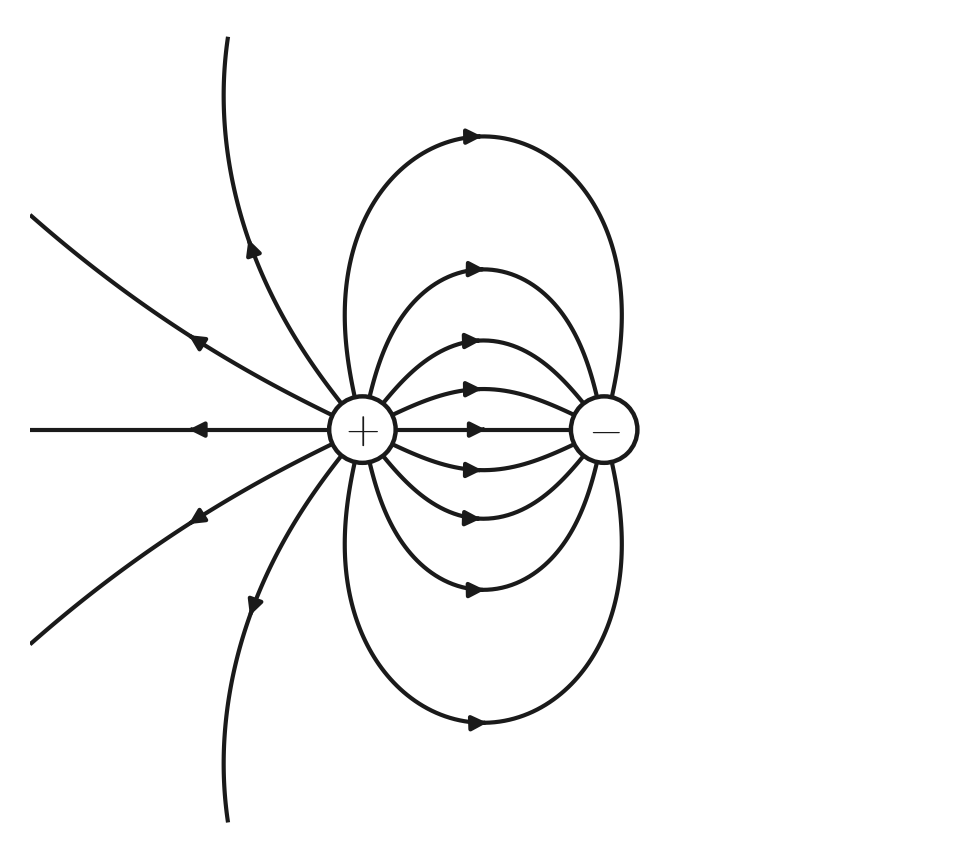
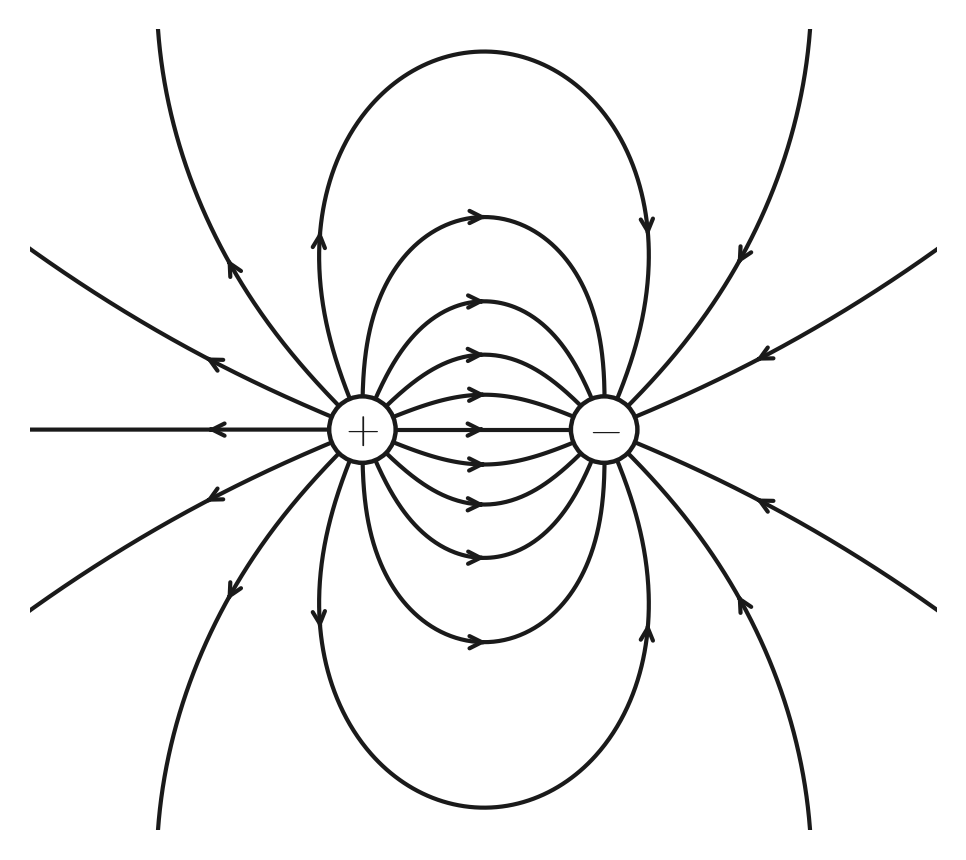
PSEII Ch 22: rebuild chapter page from current notes
22.4 now follows the derivation as taught: components with theta/phi,
substitute the side ratios, and the angles drop out. Adds Magnitude and
Direction (alpha as the output angle) and a law-of-cosines check.

22.5 rewritten to write both components before discarding either, so the
semicircle's E_x = 0 is computed rather than asserted. Adds the quarter
arc and a general-arc result whose theta_0 -> 0 limit recovers Coulomb's
law. 22.6 gains an equipotentials subsection for Exp 203.

Figures: adds fig_22_5_geometry, fig_22_5b_superposition_flipped and
fig_22_23_arc_element; regenerates fig_22_5_superposition. Also picks up
a corrected fig_22_6_dipole -- the published version was missing every
field line terminating on the negative charge.

Claude-Session: https://claude.ai/code/session_01BoE2Ccu2Y5yo7jzn8rYD96

diff --git a/courses/pseii/ch22.html b/courses/pseii/ch22.html
@@ -105,14 +105,27 @@
       .page-hero__inner{max-width:none !important;padding:0 !important}
       .page-hero__title{color:#111 !important;font-size:19pt !important}
       .page-hero__subtitle{color:#444 !important;font-size:10.5pt !important}
-      .content-body{font-size:10.5pt;line-height:1.45;color:#111 !important}
-      .content-body h2{color:#111 !important;font-size:13pt !important;margin:1.5em 0 .7em;padding-bottom:.3rem;border-bottom:1px solid #999 !important;
+      /* PRINT TYPE SCALE — keep it monotonic and keep it proportional to the
+         screen contract (screen: h2 2.10x, h3 1.20x, h4 1.05x of body).
+         Print does not need the screen's 2.1x on h2, but it does need the
+         LEVELS to stay distinguishable and in order:
+             body 10 · h4 10.5 (1.05) · h3 12 (1.20) · h2 14.5 (1.45)
+         Scaled down one notch from 11pt on 2026-08-11 (Cole: proportions right,
+         everything still too large to fit much on a page). The RATIOS are the
+         locked part; the base size is the knob. line-height is a ratio, so it
+         scales with the base and needs no separate change.
+         h4 MUST be declared here. It was previously left out, so it kept its
+         screen 1.05rem = 12.6pt and rendered LARGER than the h3 above it —
+         a sub-sub-head louder than its parent, in every chapter using ####. */
+      .content-body{font-size:10pt;line-height:1.55;color:#111 !important}
+      .content-body h2{color:#111 !important;font-size:14.5pt !important;margin:1.5em 0 .7em;padding-bottom:.3rem;border-bottom:1px solid #999 !important;
         break-after:avoid;page-break-after:avoid}
-      .content-body h3{color:#222 !important;font-size:11.5pt !important;break-after:avoid;page-break-after:avoid}
+      .content-body h3{color:#222 !important;font-size:12pt !important;break-after:avoid;page-break-after:avoid}
+      .content-body h4{color:#333 !important;font-size:10.5pt !important;break-after:avoid;page-break-after:avoid}
       /* the theme sets size/leading on .content-body p (more specific than .content-body),
          so print density MUST be set at that selector or the screen values win */
       .content-body p,.content-body li,.content-body td,.content-body th{
-        color:#111 !important;font-size:11pt !important;line-height:1.6 !important;orphans:3;widows:3}
+        color:#111 !important;font-size:10pt !important;line-height:1.55 !important;orphans:3;widows:3}
       .content-body p{margin-bottom:.55rem !important}
       .content-body ul,.content-body ol{margin-bottom:.55rem !important}
       /* block spacing is what actually drives page count once type matches */
@@ -127,6 +140,15 @@
       .content-body th{color:#111 !important;background:#eee}
       .content-body th,.content-body td{border:1px solid #999 !important}
       .content-body table,.chap-fig,.fig-ph,figure,blockquote{break-inside:avoid;page-break-inside:avoid}
+      /* Lists: these are short (3-5 items) throughout, and splitting one strands
+         orphan bullets at the top of the next page with nothing to attach them
+         to — worse when a new section heading follows immediately. A list taller
+         than a page cannot honour this and breaks normally. The :has() rule
+         keeps the lead-in sentence with the list it introduces. */
+      .content-body ul,.content-body ol{break-inside:avoid;page-break-inside:avoid}
+      .content-body li{break-inside:avoid;page-break-inside:avoid}
+      .content-body p:has(+ ul),.content-body p:has(+ ol){break-after:avoid;page-break-after:avoid}
+      /* semantic-block fragmentation is decided in ONE place, further down */
       .content-body blockquote{color:#333 !important;border-left:2px solid #999 !important}
       /* Anchor figures to the TEXT measure, not the full container. Without this they cap at
          78% of the 6.9in content box (=5.38in) while paragraphs run 5.54in, so every figure
@@ -137,7 +159,12 @@
          style="max-width:min(Xin,100%)", and an !important rule here would clobber it and
          flatten every figure to one size. Cap the FIGURE, let the source set each image. */
       .chap-fig img{padding:0 !important;border-radius:0}
-      .chap-fig figcaption{color:#444 !important;font-size:9pt}
+      /* Caption: the screen rule caps it at 52ch and centres it, which inside a
+         5.5in figure block wraps every caption to three narrow lines and wastes
+         a third of the figure's vertical budget. In print let it use the full
+         block width and set it tight — most captions then fit on one or two. */
+      .chap-fig figcaption{color:#444 !important;font-size:8.5pt;line-height:1.3 !important;
+        max-width:none !important;margin-left:0 !important;margin-right:0 !important}
       .fig-ph{border:1px dashed #999 !important;background:none !important}
       .fig-ph__tag,.fig-ph__cap{color:#444 !important}
       a{color:#111 !important;text-decoration:none}
@@ -161,9 +188,23 @@
       .check{border-left-color:#4a3f8a !important;background:rgba(74,63,138,.045) !important}
       .result{text-align:center;background:none !important;border:0 !important;
         padding:0 !important;margin:.6rem 0 !important}
-      /* a check or a result must never straddle a page break; a long example may */
+      /* Fragmentation is decided HERE and nowhere else — check for an existing
+         break-inside rule before adding another; a later one silently wins.
+         .check/.result are small and must never straddle a break.
+         .example stays `auto` DELIBERATELY, and the cost of changing it is
+         measured: forcing avoid kept the Ch 23 cavity example whole (+1 page)
+         but pushed a mid-size Ch 22 example wholesale to the next page, taking
+         that chapter 21 -> 24 pages and leaving a 7.5in blank at the foot of
+         p13. `avoid` is all-or-nothing: a block shorter than a page but longer
+         than the space remaining gets moved entire, and the gap it leaves is
+         worse than the split it prevents. */
       .check,.result{break-inside:avoid;page-break-inside:avoid}
-      .example{break-inside:auto}
+      .example,.connection{break-inside:auto}
+      /* Per-block opt-in: mark a block `::: {.example .keep}` in the markdown
+         when THAT block must not straddle a break. Author-controlled and local,
+         so one stubborn example never costs every other chapter three pages.
+         Use sparingly and only on blocks that comfortably fit a page. */
+      .keep{break-inside:avoid !important;page-break-inside:avoid !important}
     }
   </style>
 </head>
@@ -443,44 +484,71 @@
 <p>where <span class="math inline">\(\vec{F}_{21}\)</span> is the force on charge 1 due to charge 2, etc.</p>
 <section id="example-electric-field-from-two-charges" class="example">
 <h3>Example: Electric Field from Two Charges</h3>
-<p>A charge <span class="math inline">\(q_1 = +4.00\)</span> nC sits at <span class="math inline">\(x = -5.00\)</span> cm and a charge <span class="math inline">\(q_2 = -2.00\)</span> nC sits at <span class="math inline">\(x = +9.00\)</span> cm. Find the electric field at point P located at <span class="math inline">\((0,\ 12.0\ \text{cm})\)</span> on the y-axis.</p>
-<figure class="chap-fig"><img src="/courses/pseii/ch22_figures/fig_22_5_superposition.png" alt="Figure 22.5: Superposition — the net electric field at P is the vector sum of individual fields" loading="lazy" style="max-width:min(4.2in,100%)" /><figcaption>Figure 22.5: Superposition — the net electric field at P is the vector sum of individual fields</figcaption></figure>
-<p><strong>Step 1 — Distances.</strong> From each charge to P:</p>
-<p><span class="math display">\[r_1 = \sqrt{(5.00)^2 + (12.0)^2} = 13.0\ \text{cm}, \qquad r_2 = \sqrt{(9.00)^2 + (12.0)^2} = 15.0\ \text{cm}\]</span></p>
-<p><strong>Step 2 — Magnitudes.</strong> Use <span class="math inline">\(E = k_e|q|/r^2\)</span> for each charge separately:</p>
-<p><span class="math display">\[E_1 = \frac{(8.988\times10^9)(4.00\times10^{-9})}{(0.130)^2} = 2.13\times10^{3}\ \text{N/C}\]</span></p>
-<p><span class="math display">\[E_2 = \frac{(8.988\times10^9)(2.00\times10^{-9})}{(0.150)^2} = 7.99\times10^{2}\ \text{N/C}\]</span></p>
-<p><strong>Step 3 — Directions.</strong> This is where sign matters, and it is the step students most often skip. <span class="math inline">\(q_1\)</span> is <strong>positive</strong>, so <span class="math inline">\(\vec{E}_1\)</span> points <em>away</em> from it — along the unit vector from <span class="math inline">\(q_1\)</span> to P, which is <span class="math inline">\((5, 12)/13\)</span>. <span class="math inline">\(q_2\)</span> is <strong>negative</strong>, so <span class="math inline">\(\vec{E}_2\)</span> points <em>toward</em> it — along the unit vector from P to <span class="math inline">\(q_2\)</span>, which is <span class="math inline">\((9, -12)/15\)</span>.</p>
-<p><span class="math display">\[\vec{E}_1 = 2.13\times10^{3}\left(\tfrac{5}{13},\ \tfrac{12}{13}\right) = (818,\ 1964)\ \text{N/C}\]</span></p>
-<p><span class="math display">\[\vec{E}_2 = 7.99\times10^{2}\left(0.600,\ -0.800\right) = (479,\ -639)\ \text{N/C}\]</span></p>
-<p><strong>Step 4 — Add componentwise, then convert back:</strong></p>
-<p><span class="math display">\[E_x = 818 + 479 = 1.30\times10^{3}\ \text{N/C}, \qquad E_y = 1964 - 639 = 1.32\times10^{3}\ \text{N/C}\]</span></p>
+<p>Geometry (as in the figure): <span class="math inline">\(q_{1}\)</span> sits a distance <span class="math inline">\(x_{1}\)</span> to the <strong>left</strong> of the <span class="math inline">\(y\)</span>-axis and <span class="math inline">\(q_{2}\)</span> a distance <span class="math inline">\(x_{2}\)</span> to the <strong>right</strong>, both on the <span class="math inline">\(x\)</span>-axis, with the field point P at <span class="math inline">\((0,\ y)\)</span>. Let <span class="math inline">\(\theta\)</span> be the angle <span class="math inline">\(\vec{E}_{1}\)</span> makes with the horizontal and <span class="math inline">\(\phi\)</span> the angle <span class="math inline">\(\vec{E}_{2}\)</span> makes with it.</p>
+<figure class="chap-fig"><img src="/courses/pseii/ch22_figures/fig_22_5_geometry.png" alt="Figure 22.5: The two-charge problem with every quantity named. \theta and \phi appear twice — at the charges, where they are angles of the two right triangles, and at P, where they are the directions of the two fields. They are the same angles. Component arrows are drawn dashed with open heads to distinguish them from the fields themselves. \gamma is the angle a law-of-cosines attack would need; it sits at the head of \vec{E}_{1}, where \vec{E}_{2} has been carried over tip-to-tail, and it is not needed by the component route at all." loading="lazy" style="max-width:min(5.2in,100%)" /><figcaption>Figure 22.5: The two-charge problem with every quantity named. <span class="math inline">\(\theta\)</span> and <span class="math inline">\(\phi\)</span> appear twice — at the charges, where they are angles of the two right triangles, and at P, where they are the directions of the two fields. They are the same angles. Component arrows are drawn dashed with open heads to distinguish them from the fields themselves. <span class="math inline">\(\gamma\)</span> is the angle a law-of-cosines attack would need; it sits at the head of <span class="math inline">\(\vec{E}_{1}\)</span>, where <span class="math inline">\(\vec{E}_{2}\)</span> has been carried over tip-to-tail, and it is not needed by the component route at all.</figcaption></figure>
+<p><span class="math display">\[\vec{E} = \vec{E}_{1} + \vec{E}_{2}\]</span></p>
+<p><span class="math display">\[\vec{E}_{1} = E_{1x}\widehat{i} + E_{1y}\widehat{j}, \qquad \vec{E}_{2} = E_{2x}\widehat{i} + E_{2y}\widehat{j}\]</span></p>
+<p>Both charges are positive, so each field points <em>away</em> from its own source: <span class="math inline">\(\vec{E}_{1}\)</span> up and to the right, <span class="math inline">\(\vec{E}_{2}\)</span> up and to the left. That one reading of the picture fixes all four signs.</p>
+<p><span class="math display">\[E_{1x} = E_{1}\cos\theta, \quad E_{1y} = E_{1}\sin\theta, \qquad E_{2x} = -E_{2}\cos\phi, \quad E_{2y} = E_{2}\sin\phi\]</span></p>
+<p><span class="math display">\[\vec{E} = \left( E_{1}\cos\theta - E_{2}\cos\phi \right)\widehat{i} + \left( E_{1}\sin\theta + E_{2}\sin\phi \right)\widehat{j}\]</span></p>
+<p>Now the magnitudes, <span class="math inline">\(E = k_{e}q/r^{2}\)</span> taken one charge at a time:</p>
+<p><span class="math display">\[\vec{E} = \left( \frac{k_{e}q_{1}}{r_{1}^{2}}\cos\theta - \frac{k_{e}q_{2}}{r_{2}^{2}}\cos\phi \right)\widehat{i} + \left( \frac{k_{e}q_{1}}{r_{1}^{2}}\sin\theta + \frac{k_{e}q_{2}}{r_{2}^{2}}\sin\phi \right)\widehat{j}\]</span></p>
+<p>and then the angles — which are not independent information at all, but ratios of sides of triangles the coordinates already gave you:</p>
+<p><span class="math display">\[\cos\theta = \frac{x_{1}}{r_{1}}, \quad \sin\theta = \frac{y}{r_{1}}, \qquad \cos\phi = \frac{x_{2}}{r_{2}}, \quad \sin\phi = \frac{y}{r_{2}}\]</span></p>
+<p><span class="math display">\[\vec{E} = k_{e}\left[ \left( \frac{q_{1}x_{1}}{r_{1}^{3}} - \frac{q_{2}x_{2}}{r_{2}^{3}} \right)\widehat{i} + \left( \frac{q_{1}y}{r_{1}^{3}} + \frac{q_{2}y}{r_{2}^{3}} \right)\widehat{j} \right]\]</span></p>
+<p><strong>Watch what just happened to <span class="math inline">\(\theta\)</span> and <span class="math inline">\(\phi\)</span>: they are gone.</strong> Substituting the ratios removed every trace of them, and what remains depends only on <span class="math inline">\(q_{1}\)</span>, <span class="math inline">\(q_{2}\)</span>, <span class="math inline">\(x_{1}\)</span>, <span class="math inline">\(x_{2}\)</span> and <span class="math inline">\(y\)</span> — the numbers the problem handed you. The angles were bookkeeping, never inputs. With <span class="math inline">\(r_{1} = \sqrt{x_{1}^{2} + y^{2}}\)</span> and <span class="math inline">\(r_{2} = \sqrt{x_{2}^{2} + y^{2}}\)</span>:</p>
+<p><span class="math display">\[\vec{E} = k_{e}\left[ \left( \frac{q_{1}x_{1}}{\left( x_{1}^{2}+y^{2} \right)^{3/2}} - \frac{q_{2}x_{2}}{\left( x_{2}^{2}+y^{2} \right)^{3/2}} \right)\widehat{i} + \left( \frac{q_{1}y}{\left( x_{1}^{2}+y^{2} \right)^{3/2}} + \frac{q_{2}y}{\left( x_{2}^{2}+y^{2} \right)^{3/2}} \right)\widehat{j} \right]\]</span></p>
+<p>Place the charges symmetrically, <span class="math inline">\(x_{1} = x_{2} = x\)</span>, so that <span class="math inline">\(\theta = \phi\)</span> and <span class="math inline">\(r_{1} = r_{2}\)</span>:</p>
 <div class="result">
-<p><span class="math display">\[\boxed{\;E = \sqrt{E_x^2 + E_y^2} = 1.85\times10^{3}\ \text{N/C}, \qquad \theta = \tan^{-1}\!\left(\frac{E_y}{E_x}\right) = 45.6°\;}\]</span></p>
+<p><span class="math display">\[\boxed{\;\vec{E} = \frac{k_{e}}{\left( x^{2} + y^{2} \right)^{3/2}}\left[\, x\left( q_{1} - q_{2} \right)\widehat{i} + y\left( q_{1} + q_{2} \right)\widehat{j} \,\right]\;}\]</span></p>
 </div>
-<p><strong>Interpretation:</strong> the net field points up and to the right at almost exactly 45°. That is not a coincidence worth trusting — it happens because the larger, nearer positive charge pushes P upward and away while the smaller, farther negative charge pulls P down and to the right, and the two vertical contributions nearly, but not quite, cancel. Change either charge and that near-45° result disappears immediately. <strong>Superposition is a vector sum, not a magnitude sum:</strong> note that <span class="math inline">\(E \neq E_1 + E_2 = 2.93\times10^3\)</span> N/C.</p>
+<p>The <span class="math inline">\(\widehat{i}\)</span> term is carried by the <strong>difference</strong> of the charges and the <span class="math inline">\(\widehat{j}\)</span> term by their <strong>sum</strong>. Notice immediately what that means: <strong>if <span class="math inline">\(q_{2}\)</span> is negative, the field stacks in <span class="math inline">\(x\)</span> and cancels in <span class="math inline">\(y\)</span></strong> — the two behaviours trade places, and you can see it before computing anything.</p>
+<p><span class="math display">\[q_{1} = q_{2} = q: \qquad \boxed{\;\vec{E} = \frac{2k_{e}q\, y}{\left( x^{2} + y^{2} \right)^{3/2}}\,\widehat{j}\;} \qquad \text{and for } y \gg x, \quad \vec{E} \approx \frac{k_{e}(2q)}{y^{2}}\,\widehat{j}\]</span></p>
+<p><span class="math display">\[q_{1} = q,\ q_{2} = -q: \qquad \boxed{\;\vec{E} = \frac{2k_{e}q\, x}{\left( x^{2} + y^{2} \right)^{3/2}}\,\widehat{i}\;} \qquad \text{and for } y \gg x, \quad \vec{E} \approx \frac{2k_{e}q x}{y^{3}}\,\widehat{i}\]</span></p>
+<p>Far away, the <strong>sum</strong> survives as <span class="math inline">\(1/y^{2}\)</span> and is indistinguishable from a single charge <span class="math inline">\(2q\)</span> — which is exactly what should happen. The <strong>difference</strong> survives as <span class="math inline">\(1/y^{3}\)</span>, faster than any point charge, because what is left is only the residue after a near-cancellation. Recognizing a vanishing component <em>before</em> computing anything is the most valuable habit in this chapter, and it is the same move that makes the continuous distributions in §22.5 tractable.</p>
 </section>
-<div class="example">
-<h3 id="special-case-two-equal-charges-symmetry-does-the-work">Special Case: Two Equal Charges — Symmetry Does the Work</h3>
-<p>Now let both charges be <strong>identical</strong>, <span class="math inline">\(q_1 = q_2 = +q\)</span>, placed symmetrically at <span class="math inline">\(x = \pm a\)</span>, with P again at <span class="math inline">\((0, y)\)</span>.</p>
-<p>Each field has the same magnitude <span class="math inline">\(k_e q/(a^2+y^2)\)</span>, and their <span class="math inline">\(x\)</span>-components point in opposite directions. They cancel exactly:</p>
-<p><span class="math display">\[E_x = 0\]</span></p>
-<p>Only the <span class="math inline">\(y\)</span>-components survive, each contributing a factor <span class="math inline">\(\cos\theta = y/\sqrt{a^2+y^2}\)</span>:</p>
+<h3 id="magnitude-and-direction">Magnitude and Direction</h3>
+<p>The components are the answer, but the answer is usually asked for as a size and a heading. Reserve a <strong>new</strong> symbol for that heading — <span class="math inline">\(\alpha\)</span>, measured from the <span class="math inline">\(+x\)</span>-axis — because it is an <strong>output</strong> of the calculation, not one of the angles that went in.</p>
+<p><span class="math display">\[E = \sqrt{E_{x}^{2} + E_{y}^{2}}, \qquad \tan\alpha = \frac{E_{y}}{E_{x}}\]</span></p>
+<p>In full generality this is unlovely, but it is explicit and it is finished:</p>
+<p><span class="math display">\[E = \sqrt{\left[ k_{e}\left( \frac{q_{1}x_{1}}{\left( x_{1}^{2}+y^{2} \right)^{3/2}} - \frac{q_{2}x_{2}}{\left( x_{2}^{2}+y^{2} \right)^{3/2}} \right) \right]^{2} + \left[ k_{e}\left( \frac{q_{1}y}{\left( x_{1}^{2}+y^{2} \right)^{3/2}} + \frac{q_{2}y}{\left( x_{2}^{2}+y^{2} \right)^{3/2}} \right) \right]^{2}}\]</span></p>
+<p><span class="math display">\[\alpha = \arctan\left[ \frac{\dfrac{q_{1}y}{\left( x_{1}^{2}+y^{2} \right)^{3/2}} + \dfrac{q_{2}y}{\left( x_{2}^{2}+y^{2} \right)^{3/2}}}{\dfrac{q_{1}x_{1}}{\left( x_{1}^{2}+y^{2} \right)^{3/2}} - \dfrac{q_{2}x_{2}}{\left( x_{2}^{2}+y^{2} \right)^{3/2}}} \right]\]</span></p>
+<p>In the symmetric case the common factor comes out and the whole thing collapses:</p>
 <div class="result">
-<p><span class="math display">\[\boxed{\;E_y = \frac{2k_e q\, y}{(a^2 + y^2)^{3/2}}\;}\]</span></p>
+<p><span class="math display">\[E = \frac{k_{e}}{\left( x^{2} + y^{2} \right)^{3/2}}\sqrt{\left[ x\left( q_{1} - q_{2} \right) \right]^{2} + \left[ y\left( q_{1} + q_{2} \right) \right]^{2}}, \qquad \alpha = \arctan\left[ \frac{y}{x}\,\frac{q_{1} + q_{2}}{q_{1} - q_{2}} \right]\]</span></p>
 </div>
+<p>And now the direction of each limiting case falls out with no arithmetic at all:</p>
+<p><span class="math display">\[q_{1} = q_{2} = q: \quad \alpha = \arctan\left[ \text{undefined} \right] = 90° \qquad\qquad q_{1} = q,\ q_{2} = -q: \quad \alpha = \arctan\left[ 0 \right] = 0°\]</span></p>
 <div class="check">
-<p><strong>Check the limit.</strong> Far away (<span class="math inline">\(y \gg a\)</span>), the denominator becomes <span class="math inline">\(y^3\)</span> and</p>
-<p><span class="math display">\[E_y \to \frac{2k_e q}{y^2} = k_e\frac{(2q)}{y^2}\]</span></p>
+<p><strong>Read those two against the pictures.</strong> Equal charges put P on a line of symmetry, so the field there can only point straight up the <span class="math inline">\(y\)</span>-axis — <span class="math inline">\(\alpha = 90°\)</span>, and the arctangent tells you so by dividing by zero. Equal and opposite charges cancel the vertical entirely, leaving a field straight along <span class="math inline">\(x\)</span> — <span class="math inline">\(\alpha = 0°\)</span>. <strong>Neither required evaluating a single number.</strong> The structure of the boxed result decided both.</p>
 </div>
-<p>From a distance, two charges <span class="math inline">\(q\)</span> separated by a small gap are indistinguishable from a single charge <span class="math inline">\(2q\)</span> — which is exactly what should happen. Recognizing a cancelling component <em>before</em> computing anything is the most valuable habit in this chapter, and it is the same move that makes the continuous distributions in §22.5 tractable.</p>
-<h3 id="special-case-electric-dipole">Special Case: Electric Dipole</h3>
-<p>An <strong>electric dipole</strong> consists of two equal and opposite charges (<span class="math inline">\(+q\)</span> and <span class="math inline">\(-q\)</span>) separated by a distance <span class="math inline">\(2a\)</span>.</p>
+<section id="putting-numbers-in" class="example">
+<h3>Putting Numbers In</h3>
+<p><span class="math inline">\(q_{1} = +4.00\)</span> nC at <span class="math inline">\(x_{1} = -5.00\)</span> cm and <span class="math inline">\(q_{2} = +2.00\)</span> nC at <span class="math inline">\(x_{2} = +9.00\)</span> cm, with P at <span class="math inline">\((0,\ 12.0)\)</span> cm. The arrangement is <strong>not</strong> symmetric, so the general line applies rather than either boxed limit.</p>
+<figure class="chap-fig"><img src="/courses/pseii/ch22_figures/fig_22_5_superposition.png" alt="Figure 22.5b: Superposition — the net electric field at P is the vector sum of the individual fields" loading="lazy" style="max-width:min(3.9in,100%)" /><figcaption>Figure 22.5b: Superposition — the net electric field at P is the vector sum of the individual fields</figcaption></figure>
+<p><span class="math display">\[\vec{r}_{1} = 5.00\,\widehat{i} + 12.0\,\widehat{j}\ \text{cm}, \quad r_{1} = 13.0\ \text{cm} \qquad\qquad \vec{r}_{2} = -9.00\,\widehat{i} + 12.0\,\widehat{j}\ \text{cm}, \quad r_{2} = 15.0\ \text{cm}\]</span></p>
+<p><span class="math display">\[\vec{E} = (16364)\left( 0.0500\,\widehat{i} + 0.120\,\widehat{j} \right) + (5326)\left( -0.0900\,\widehat{i} + 0.120\,\widehat{j} \right)\]</span></p>
+<p><span class="math display">\[\vec{E} = \left( 818\,\widehat{i} + 1964\,\widehat{j} \right) + \left( -479\,\widehat{i} + 639\,\widehat{j} \right)\]</span></p>
+<div class="result">
+<p><span class="math display">\[\boxed{\;\vec{E} = 339\,\widehat{i} + 2603\,\widehat{j}\ \ \text{N/C}, \qquad E = 2.62\times10^{3}\ \text{N/C}, \qquad \alpha = 82.6°\;}\]</span></p>
+</div>
+<p>The horizontal parts oppose and very nearly spend each other; the vertical parts add outright. That is the <span class="math inline">\(\left( q_{1} - q_{2} \right)\)</span> and <span class="math inline">\(\left( q_{1} + q_{2} \right)\)</span> structure of the boxed result showing up before the arrangement was made symmetric. Note also that <span class="math inline">\(\alpha\)</span> is an <strong>output</strong> — the direction of the answer, measured from the <span class="math inline">\(+x\)</span>-axis. No angle was supplied to get here.</p>
+<p><strong>The same geometry, one sign flipped.</strong> Let <span class="math inline">\(q_{2} = -2.00\)</span> nC instead. Every distance is unchanged and both magnitudes are exactly what they were; only the second term changes sign, so <span class="math inline">\(\left( -479\,\widehat{i} + 639\,\widehat{j} \right)\)</span> becomes <span class="math inline">\(\left( 479\,\widehat{i} - 639\,\widehat{j} \right)\)</span>.</p>
+<figure class="chap-fig"><img src="/courses/pseii/ch22_figures/fig_22_5b_superposition_flipped.png" alt="Figure 22.5c: The same two charges with q_2 negative — the same magnitudes, a different sum" loading="lazy" style="max-width:min(3.9in,100%)" /><figcaption>Figure 22.5c: The same two charges with <span class="math inline">\(q_2\)</span> negative — the same magnitudes, a different sum</figcaption></figure>
+<p><span class="math display">\[\vec{E} = 1297\,\widehat{i} + 1325\,\widehat{j}\ \ \text{N/C}, \qquad E = 1.85\times10^{3}\ \text{N/C}, \qquad \alpha = 45.6°\]</span></p>
+<p>Not one distance and not one magnitude changed, yet the answer swung from <span class="math inline">\(82.6°\)</span> to <span class="math inline">\(45.6°\)</span> and lost nearly a third of its size. Every bit of that came from direction alone, and the roles of the components swapped: the horizontal parts now add while the vertical parts oppose. The near-<span class="math inline">\(45°\)</span> is a coincidence — <span class="math inline">\(E_x\)</span> and <span class="math inline">\(E_y\)</span> simply happen to land close together — and it disappears the moment either charge changes.</p>
+</section>
+<h3 id="a-check-the-law-of-cosines">A Check: the Law of Cosines</h3>
+<p><span class="math inline">\(\vec{E}_{1}\)</span>, <span class="math inline">\(\vec{E}_{2}\)</span> and their sum form a triangle, so the magnitude can also be had from the law of cosines — provided you can name the angle it wants:</p>
+<p><span class="math display">\[E^{2} = E_{1}^{2} + E_{2}^{2} - 2E_{1}E_{2}\cos\gamma\]</span></p>
+<p>That angle is <span class="math inline">\(\gamma\)</span> in Figure 22.5: the interior angle where <span class="math inline">\(\vec{E}_{2}\)</span> is carried over tip-to-tail from the head of <span class="math inline">\(\vec{E}_{1}\)</span>. It is not a new quantity — it is the sum of the two angles the fields already make with the horizontal.</p>
+<p><span class="math display">\[\gamma = \theta + \phi = 67.4° + 53.1° = 120.5°\]</span></p>
+<p><span class="math display">\[E = \sqrt{\left( 2127 \right)^{2} + \left( 799 \right)^{2} - 2\left( 2127 \right)\left( 799 \right)\cos 120.5°} = 2.62 \times 10^{3}\ \text{N/C}\]</span></p>
+<p>the same number the components gave. Note what it does <strong>not</strong> give you: the direction. <span class="math inline">\(\alpha\)</span> still has to come from <span class="math inline">\(E_{x}\)</span> and <span class="math inline">\(E_{y}\)</span>, or from a second application of the law of sines. That is the reason to learn the component route rather than this one — <strong>it finishes the problem in a single pass</strong>, and this does not.</p>
+<h3 id="the-electric-dipole">The Electric Dipole</h3>
+<p>An <strong>electric dipole</strong> is the second boxed limit above: equal and opposite charges, <span class="math inline">\(+q\)</span> and <span class="math inline">\(-q\)</span>, separated by <span class="math inline">\(2a\)</span>. It is worth its own name because it is the leading behaviour of any neutral object with separated charge — a water molecule, an antenna, a polarized atom.</p>
 <figure class="chap-fig"><img src="/courses/pseii/ch22_figures/fig_22_6_dipole.png" alt="Figure 22.6: Electric dipole with field lines curving from positive to negative charge" loading="lazy" style="max-width:min(4.2in,100%)" /><figcaption>Figure 22.6: Electric dipole with field lines curving from positive to negative charge</figcaption></figure>
-<p>For points far from the dipole (<span class="math inline">\(y &gt;&gt; a\)</span>), the electric field along the perpendicular bisector falls off as:</p>
-<p><span class="math display">\[E \propto \frac{1}{y^3}\]</span></p>
-<p>This is faster than the <span class="math inline">\(1/r^2\)</span> falloff of a single charge! The fields from the two charges partially cancel.</p>
-</div>
+<p>Along the perpendicular bisector the field falls off as <span class="math inline">\(1/y^{3}\)</span> rather than <span class="math inline">\(1/y^{2}\)</span>. A dipole is neutral, so from far enough away it must look like nothing at all; the <span class="math inline">\(1/y^{3}\)</span> is how fast “nearly nothing” arrives.</p>
 <hr />
 <h2 id="electric-field-from-continuous-charge-distributions-calculus-extension">22.5 — Electric Field from Continuous Charge Distributions (Calculus Extension)</h2>
 <h3 id="from-discrete-to-continuous">From Discrete to Continuous</h3>
@@ -495,25 +563,49 @@
 <p><strong>Linear charge density</strong> (charge per unit length): <span class="math display">\[\lambda = \frac{dq}{dx} \quad \Rightarrow \quad dq = \lambda\, dx\]</span> Units: C/m</p>
 <p><strong>Surface charge density</strong> (charge per unit area): <span class="math display">\[\sigma = \frac{dq}{dA} \quad \Rightarrow \quad dq = \sigma\, dA\]</span> Units: C/m²</p>
 <p><strong>Volume charge density</strong> (charge per unit volume): <span class="math display">\[\rho = \frac{dq}{dV} \quad \Rightarrow \quad dq = \rho\, dV\]</span> Units: C/m³</p>
-<section id="example-electric-field-from-a-semicircular-arc" class="example">
-<h3>Example: Electric Field from a Semicircular Arc</h3>
+<div class="example">
+<h3 id="example-electric-field-from-a-semicircular-arc">Example: Electric Field from a Semicircular Arc</h3>
 <p>A thin wire is bent into a <strong>semicircle of radius <span class="math inline">\(R\)</span></strong> carrying total charge <span class="math inline">\(Q\)</span> spread uniformly along its length. Find the electric field at the center of the circle.</p>
-<p><strong>Step 1 — Symmetry first, before any integral.</strong> Put the arc in the upper half-plane with its center at the origin. For every charge element on the left half there is a mirror element on the right. Their horizontal contributions point in opposite directions and cancel exactly; their vertical contributions both point the same way and add.</p>
-<p><span class="math display">\[E_x = 0 \quad \text{(by symmetry)}\]</span></p>
-<p>Identifying the component that <em>dies</em> — before writing anything down — is the whole skill. It turns a vector problem into a scalar one.</p>
-<p><strong>Step 2 — One element.</strong> The arc has length <span class="math inline">\(\pi R\)</span>, so <span class="math inline">\(\lambda = Q/\pi R\)</span>. An element subtending angle <span class="math inline">\(d\theta\)</span> carries <span class="math inline">\(dq = \lambda R\, d\theta\)</span>, and — this is what makes the arc easy — <strong>every element sits the same distance <span class="math inline">\(R\)</span> from the center.</strong> So each contributes the same magnitude:</p>
-<p><span class="math display">\[dE = k_e\frac{dq}{R^2} = \frac{k_e \lambda\, d\theta}{R}\]</span></p>
-<p><strong>Step 3 — Keep only what survives, and integrate.</strong> The vertical fraction of each contribution is <span class="math inline">\(\sin\theta\)</span>:</p>
-<p><span class="math display">\[E_y = \frac{k_e\lambda}{R}\int_0^{\pi}\sin\theta\, d\theta = \frac{k_e\lambda}{R}\Big[-\cos\theta\Big]_0^{\pi} = \frac{2k_e\lambda}{R}\]</span></p>
+<p>Put the arc in the upper half-plane with its centre at the origin, and let <span class="math inline">\(\theta\)</span> measure position along it from the <span class="math inline">\(+x\)</span>-axis. Let <span class="math inline">\(\lambda = Q/\pi R\)</span>.</p>
+<figure class="chap-fig"><img src="/courses/pseii/ch22_figures/fig_22_23_arc_element.png" alt="Figure 22.9: One element of the arc, and the field it produces at the centre. Both components are written before any of them is discarded." loading="lazy" style="max-width:min(4.1in,100%)" /><figcaption>Figure 22.9: One element of the arc, and the field it produces at the centre. Both components are written before any of them is discarded.</figcaption></figure>
+<p><span class="math display">\[\vec{E} = \int \frac{k_e\, dq}{R^{2}}\,\widehat{r}\]</span></p>
+<p><span class="math display">\[dq = \lambda R\, d\theta\]</span></p>
+<p>Every element sits the <strong>same distance <span class="math inline">\(R\)</span></strong> from the centre, so <span class="math inline">\(R\)</span> never varies and comes straight out of the integral:</p>
+<p><span class="math display">\[dE = \frac{k_e\, dq}{R^{2}} = \frac{k_e \lambda\, d\theta}{R}\]</span></p>
+<p>Resist the temptation to declare a component zero on sight. Take <strong>one</strong> element, at angle <span class="math inline">\(\theta\)</span>, and write <strong>both</strong> of its components. The element sits at <span class="math inline">\(R\left( \cos\theta,\ \sin\theta \right)\)</span>, and for <span class="math inline">\(\lambda &gt; 0\)</span> the field it makes at the centre points <em>away</em> from it, along <span class="math inline">\(-\left( \cos\theta,\ \sin\theta \right)\)</span>:</p>
+<p><span class="math display">\[d\vec{E} = -\frac{k_e\lambda\, d\theta}{R}\left( \cos\theta\, \widehat{i} + \sin\theta\, \widehat{j} \right)\]</span></p>
+<p><span class="math display">\[E_x = -\frac{k_e\lambda}{R}\int \cos\theta\, d\theta, \qquad\qquad E_y = -\frac{k_e\lambda}{R}\int \sin\theta\, d\theta\]</span></p>
+<p>Nothing has been thrown away and no symmetry has been claimed. The physics is finished; what remains is a question about <strong>limits</strong>. For the semicircle they run from <span class="math inline">\(0\)</span> to <span class="math inline">\(\pi\)</span>:</p>
+<p><span class="math display">\[E_x = -\frac{k_e\lambda}{R}\Big[\sin\theta\Big]_{0}^{\pi} = -\frac{k_e\lambda}{R}\left( 0 - 0 \right) = 0, \qquad E_y = -\frac{k_e\lambda}{R}\Big[-\cos\theta\Big]_{0}^{\pi} = -\frac{2k_e\lambda}{R}\]</span></p>
+<p><strong>The zero was computed, not asserted.</strong> <span class="math inline">\(\sin\pi - \sin 0 = 0\)</span> — that <em>is</em> the symmetry argument, performed by the integral rather than substituted for it. It is the same event as <span class="math inline">\(\left( q_{1} - q_{2} \right)\)</span> vanishing in §22.4: write both components, then read which one the structure kills.</p>
 <div class="result">
-<p><span class="math display">\[\boxed{\;E = \frac{2k_e\lambda}{R} = \frac{2k_e Q}{\pi R^2}\;}\]</span></p>
+<p><span class="math display">\[\boxed{\;\vec{E} = -\frac{2k_e\lambda}{R}\,\widehat{j}, \qquad E = \frac{2k_e\lambda}{R} = \frac{2k_e Q}{\pi R^2}\;}\]</span></p>
 </div>
 <p>directed along the arc’s axis of symmetry, away from the arc for positive <span class="math inline">\(Q\)</span>.</p>
 <div class="check">
 <p><strong>Is that reasonable?</strong> Collapse the same charge <span class="math inline">\(Q\)</span> into a single point at the same distance <span class="math inline">\(R\)</span> and you would get <span class="math inline">\(k_eQ/R^2\)</span>. The arc delivers <span class="math inline">\(2/\pi \approx 64\%\)</span> of that. <strong>Spreading charge out always costs you field strength</strong> relative to concentrating it at the same distance — the off-axis parts of each contribution cancel against each other and are simply lost. That ratio, <span class="math inline">\(2/\pi\)</span>, is the price of the spreading.</p>
 </div>
-<p><em>*Notice what actually did the work here. Not the integral — that was one line. The symmetry argument, which told us which component was worth computing at all. Every continuous distribution you will meet, whether a rod, a ring, a disk, or an infinite sheet, is the same five moves: choose <span class="math inline">\(dq\)</span>, write <span class="math inline">\(r\)</span>, kill a component by symmetry, integrate what is left, then check a limit. Chapter 23 promotes this instinct to a law.</em></p>
-</section>
+<h3 id="change-one-limit-the-quarter-arc">Change One Limit: the Quarter Arc</h3>
+<p>Nothing in the setup above was special to a half-circle. Bend the same wire into a <strong>quarter</strong> in the first quadrant, keeping <span class="math inline">\(\lambda\)</span> and <span class="math inline">\(R\)</span>, and every line up to the integrals is unchanged. Only the upper limit moves, from <span class="math inline">\(\pi\)</span> to <span class="math inline">\(\pi/2\)</span>:</p>
+<p><span class="math display">\[E_x = -\frac{k_e\lambda}{R}\Big[\sin\theta\Big]_{0}^{\pi/2} = -\frac{k_e\lambda}{R}\left( 1 - 0 \right) = -\frac{k_e\lambda}{R}\]</span></p>
+<p><span class="math display">\[E_y = -\frac{k_e\lambda}{R}\Big[-\cos\theta\Big]_{0}^{\pi/2} = -\frac{k_e\lambda}{R}\left( 0 + 1 \right) = -\frac{k_e\lambda}{R}\]</span></p>
+<div class="result">
+<p><span class="math display">\[\boxed{\;\vec{E} = -\frac{k_e\lambda}{R}\left( \widehat{i} + \widehat{j} \right), \qquad E = \frac{\sqrt{2}\,k_e\lambda}{R}\;}\]</span></p>
+</div>
+<p>directed at <span class="math inline">\(45°\)</span> below the <span class="math inline">\(-x\)</span> axis. <strong>This time nothing vanished.</strong> The same cosine integral that returned zero across a full half-turn returns <span class="math inline">\(1\)</span> across a quarter, so both components survive — and the quarter arc’s field is <em>not</em> along either axis.</p>
+<div class="check">
+<p><strong>Why are the two components equal?</strong> Because the quarter arc is symmetric about the <span class="math inline">\(45°\)</span> line, so it cannot prefer <span class="math inline">\(x\)</span> over <span class="math inline">\(y\)</span>. Notice what that symmetry did and did not do: it <strong>predicted</strong> that the two answers would match, which is a useful check, but it <strong>removed no work</strong>. Compare that with the half-circle, where the symmetry genuinely killed an integral. Symmetry is a gift when you get one; it is not a method.</p>
+</div>
+<h3 id="one-formula-for-any-arc">One Formula for Any Arc</h3>
+<p>Both results above are cases of a single statement. Put <span class="math inline">\(\theta\)</span> on the arc’s <strong>own</strong> axis of symmetry rather than the <span class="math inline">\(x\)</span>-axis, letting it run from <span class="math inline">\(-\theta_{0}\)</span> to <span class="math inline">\(+\theta_{0}\)</span>, so the arc has opening angle <span class="math inline">\(2\theta_{0}\)</span>. The perpendicular component then vanishes for <em>every</em> arc at once — its integrand is odd and the limits are symmetric — and with total charge <span class="math inline">\(Q = 2\lambda R\theta_{0}\)</span> the survivor is</p>
+<div class="result">
+<p><span class="math display">\[\boxed{\;E = \frac{k_e Q}{R^{2}} \cdot \frac{\sin\theta_{0}}{\theta_{0}}\;}\]</span></p>
+</div>
+<div class="check">
+<p><strong>Shrink the arc and watch Coulomb’s law come back.</strong> As <span class="math inline">\(\theta_{0} \rightarrow 0\)</span> the charge <span class="math inline">\(Q\)</span> crowds onto a single point at distance <span class="math inline">\(R\)</span>, and <span class="math inline">\(\sin\theta_{0}/\theta_{0} \rightarrow 1\)</span>, leaving <span class="math inline">\(E \rightarrow k_{e}Q/R^{2}\)</span>. The integral did not replace Coulomb’s law — it generalised it, and this is the proof. The whole factor <span class="math inline">\(\sin\theta_{0}/\theta_{0}\)</span> <strong>is</strong> the price of spreading: exactly <span class="math inline">\(1\)</span> for a point, and falling as the charge is smeared around the circle. At <span class="math inline">\(\theta_{0} = \pi/2\)</span> it is <span class="math inline">\(2/\pi\)</span>, which is the <span class="math inline">\(64\%\)</span> found above; at <span class="math inline">\(\theta_{0} = \pi\)</span> the arc closes into a full ring, <span class="math inline">\(\sin\pi = 0\)</span>, and the field at the centre is zero — as it must be.</p>
+</div>
+<p><em>*Notice what actually did the work here. Not the integral — that was one line. It was <strong>writing both components before deciding anything</strong>, which let the limits report which one survives instead of you guessing. Every continuous distribution you will meet, whether a rod, a ring, a disk, or an infinite sheet, is the same five moves: choose <span class="math inline">\(dq\)</span>, write <span class="math inline">\(r\)</span>, write both components, integrate, then check a limit. Chapter 23 promotes this instinct to a law.</em></p>
+</div>
 <hr />
 <h2 id="electric-field-lines">22.6 — Electric Field Lines</h2>
 <h3 id="visualizing-the-electric-field">Visualizing the Electric Field</h3>
@@ -536,6 +628,15 @@
 <h3 id="field-lines-and-flux">Field Lines and Flux</h3>
 <p>The <strong>density of field lines</strong> (number of lines per unit area) is proportional to the electric field magnitude. This concept will be formalized as <strong>electric flux</strong> in Chapter 23 when we introduce Gauss’s Law.</p>
 <figure class="chap-fig"><img src="/courses/pseii/ch22_figures/fig_22_8_parallel_plates.png" alt="Figure 22.8: Uniform electric field between parallel plates" loading="lazy" style="max-width:min(4.6in,100%)" /><figcaption>Figure 22.8: Uniform electric field between parallel plates</figcaption></figure>
+<h3 id="equipotentials-what-the-lab-actually-measures">Equipotentials: What the Lab Actually Measures</h3>
+<p>In lab (<strong>Experiment 203, Electric Field Mapping</strong>) you will not measure field lines. A voltmeter probe reads <strong>electric potential</strong>, so what you can actually map are the curves along which that reading does not change. These are called <strong>equipotentials</strong>: surfaces on which no work is required to move a charge from one point to another.</p>
+<p>The two pictures are linked by a single geometric fact:</p>
+<blockquote>
+<p><strong>Equipotentials always cross electric field lines at right angles.</strong></p>
+</blockquote>
+<p>That is what makes the experiment work. You map the equipotentials, draw the perpendiculars, and you have recovered the field lines you could not measure directly.</p>
+<p>Rule 5 above is this same statement in disguise. The surface of a conductor in electrostatic equilibrium is an equipotential — every point on it sits at the same potential — which is exactly why field lines must meet it square.</p>
+<p>We are not defining potential yet; that is <strong>Chapter 24</strong>. For now, the word and the perpendicularity are enough to make sense of what appears on your plotting paper.</p>
 <hr />
 <h2 id="motion-of-a-charged-particle-in-a-uniform-electric-field">22.7 — Motion of a Charged Particle in a Uniform Electric Field</h2>
 <section id="projectile-motion-analogy" class="connection">
@@ -558,7 +659,7 @@
 <p><strong>(C) Find the velocity components after traveling 5.00 cm horizontally.</strong></p>
 <p><span class="math display">\[v_x = 4.50 \times 10^5\ \text{m/s}\]</span> (unchanged)</p>
 <p><span class="math display">\[v_y = a_y t = (9.19 \times 10^{11})(1.11 \times 10^{-7}) = 1.02 \times 10^5\ \text{m/s}\]</span></p>
-<p><span class="math display">\[\vec{v} = (4.50 \times 10^5\ \hat{i} + 1.02 \times 10^5\ \hat{j})\ \text{m/s}\]</span></p>
+<p><span class="math display">\[\vec{v} = \left( 4.50 \times 10^5\ \widehat{i} + 1.02 \times 10^5\ \widehat{j} \right)\ \text{m/s}\]</span></p>
 </section>
 <h3 id="energy-considerations">Energy Considerations</h3>
 <p>We can also analyze motion using energy methods. The work done by the electric field on a charge is:</p>
